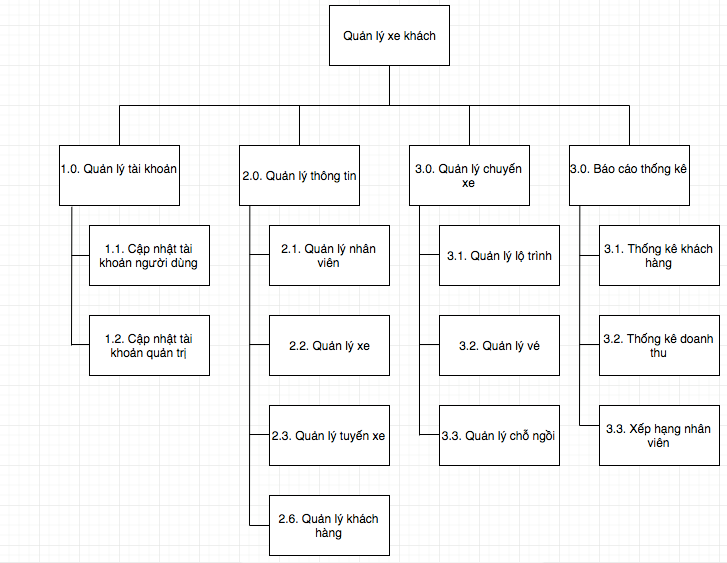
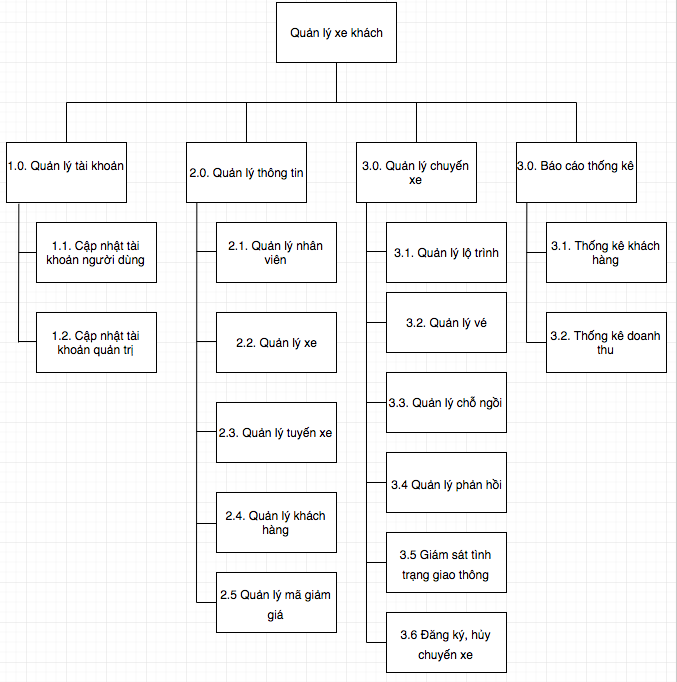
Add doc

Changed region(s): [[0.0, 0.0, 1.0, 1.0], [0.4032, 0.0, 0.6204, 0.151], [0.2792, 0.1812, 0.4653, 0.2114]]

diff --git a/README.md b/README.md
@@ -3,16 +3,86 @@
 ** Bảo vệ xong sẽ viết doc dành riêng xây dựng RESTfull api và GraphQL **
 
 # Phân tích thiết kế hệ thống
+## 1 Xác định chức năng
+### Bảng xác định chức năng
+
+STT          | Tên chức năng
+-------------| --------------
+`1`          | Cập nhật tài khoản nhân viên, quản lý
+`2`          | Cập nhật tài khoản khách hàng
+`3`          | Cập nhật xe
+`4`          | Cập nhật tuyến xe
+`5`          | Quản lý thông tin khách hàng
+`6`          | Quản lý nhân viên
+`7`          | Cập nhật mã giảm giá
+`8`          | Cập nhật chuyến xe
+`9`          | Cập nhật lộ trình
+`10`          | Cập nhật vé
+`11`          | Giám sát tình trạng giao thông
+`12`          | Đăng ký, hủy chuyến
+`13`          | Quản lý phản hồi
+`14`          | Cập nhật chỗ ngồi
+`15`          | Thống kê khách hàng
+`16`          | Thống kê doanh thu
+
+
+## 2 Gom nhóm chức năng
+### Bảng gom nhóm chức năng
+
+![Bảng phân nhóm chức năng](https://raw.githubusercontent.com/thanhpcc96/SERVER-API/master/screenshot/phannhomchucnang.png)
+
+## 3 Sơ đồ phân rã chức năng
 >Sơ đồ phân rã chức năng
 ![Sơ đồ phân dã chức năng](https://raw.githubusercontent.com/thanhpcc96/SERVER-API/master/screenshot/sodophanrachucnang.png)
 
+## 3 DFD mức khung cảnh
+### Sơ đồ mức khung cảnh
+![Sơ đồ mức khung cảnh](https://raw.githubusercontent.com/thanhpcc96/SERVER-API/master/screenshot/sodomucngucanh.png)
 
-> Sơ đồ mức khung cảnh
-![Sơ đồ phân dã chức năng](https://raw.githubusercontent.com/thanhpcc96/SERVER-API/master/screenshot/sodomucngucanh.png)
+> Sơ đồ luồng dữ liệu mức khung cảnh liệt kê các tương tác từ phía người dùng và sự phản hồi của ứng dụng ngược trở lại.
 
 
-> Sơ đồ mức đỉnh
+
+## 4 DFD mức đỉnh
 ![Sơ đồ phân dã chức năng](https://raw.githubusercontent.com/thanhpcc96/SERVER-API/master/screenshot/mucdinh-11-10-2017.png)
+
+Sơ đồ luồng dữ liệu mức đỉnh phân tích các tương tác của người dùng với các nhóm chức năng của ứng dụng và sự ảnh hưởng tới kho dữ liệu:
+-`−	Nhóm chức năng Quản lý tài khoản`
+-`−	Nhóm chức năng Quản lý thông tin`
+-`−	Nhóm chức năng Quản lý chuyến xe`
+-`−	Nhóm chức năng Báo cáo thống kê`
+## 5 DFD mức dưới đỉnh
+### 5.1 DFD quản lý tài khoản
+Sơ đồ luồng dữ liệu của Quản lý Tài khoản mô tả các tương tác của người dùng đến nhóm chức năng Quản lý Tài khoản.
+
+![DFD cập nhật thông tin tài khoản khách hàng](https://raw.githubusercontent.com/thanhpcc96/SERVER-API/master/screenshot/Sodomucduoidinh-capnhattaikhoannguoidung.png)
+
+> DFD quản lý cập nhật thông tin tài khoản khách hàng
+
+![DFD cập nhật thông tin tài khoản quản trị](https://raw.githubusercontent.com/thanhpcc96/SERVER-API/master/screenshot/sodomucduoidinh_quanlycapnhatquanly.png)
+
+>DFD quản lý cập nhật thông tin tài khoản quản trị
+
+### 5.2 DFD quản lý thông tin
+
+![DFD dưới đỉnh quản lý thông tin](https://raw.githubusercontent.com/thanhpcc96/SERVER-API/master/screenshot/sodomucduoidinh_quanlythongtin.png)
+
+> DFD dưới đỉnh quản lý thông tin
+
+### 5.2 DFD quản lý Chuyến xe
+![DFD dưới đỉnh quản lý chuyen xe](https://raw.githubusercontent.com/thanhpcc96/SERVER-API/master/screenshot/sodomucduoidinh_quanlychuyenxe.png)
+ > DFD quản lý Chuyến xe
+
+ ### 5.4 DFD Báo cáo thống kê
+
+![DFD dưới đỉnh quản lý thống kê](https://raw.githubusercontent.com/thanhpcc96/SERVER-API/master/screenshot/sodomucduoidinh_quanlythongke.png)
+ > DFD quản lý Thống kê
+
+
+
+
+
+
 
 
 
